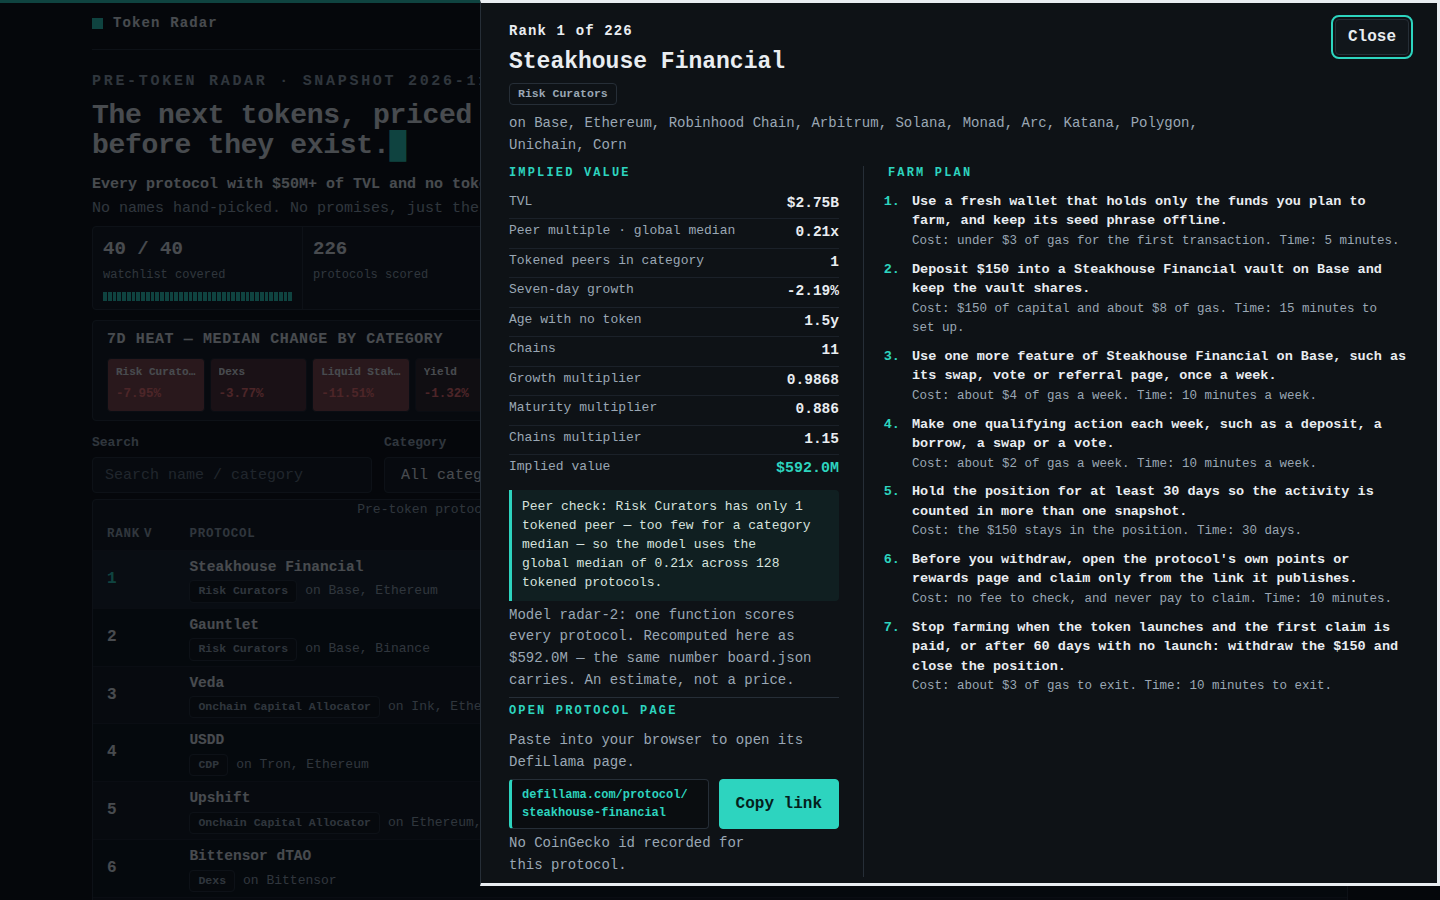
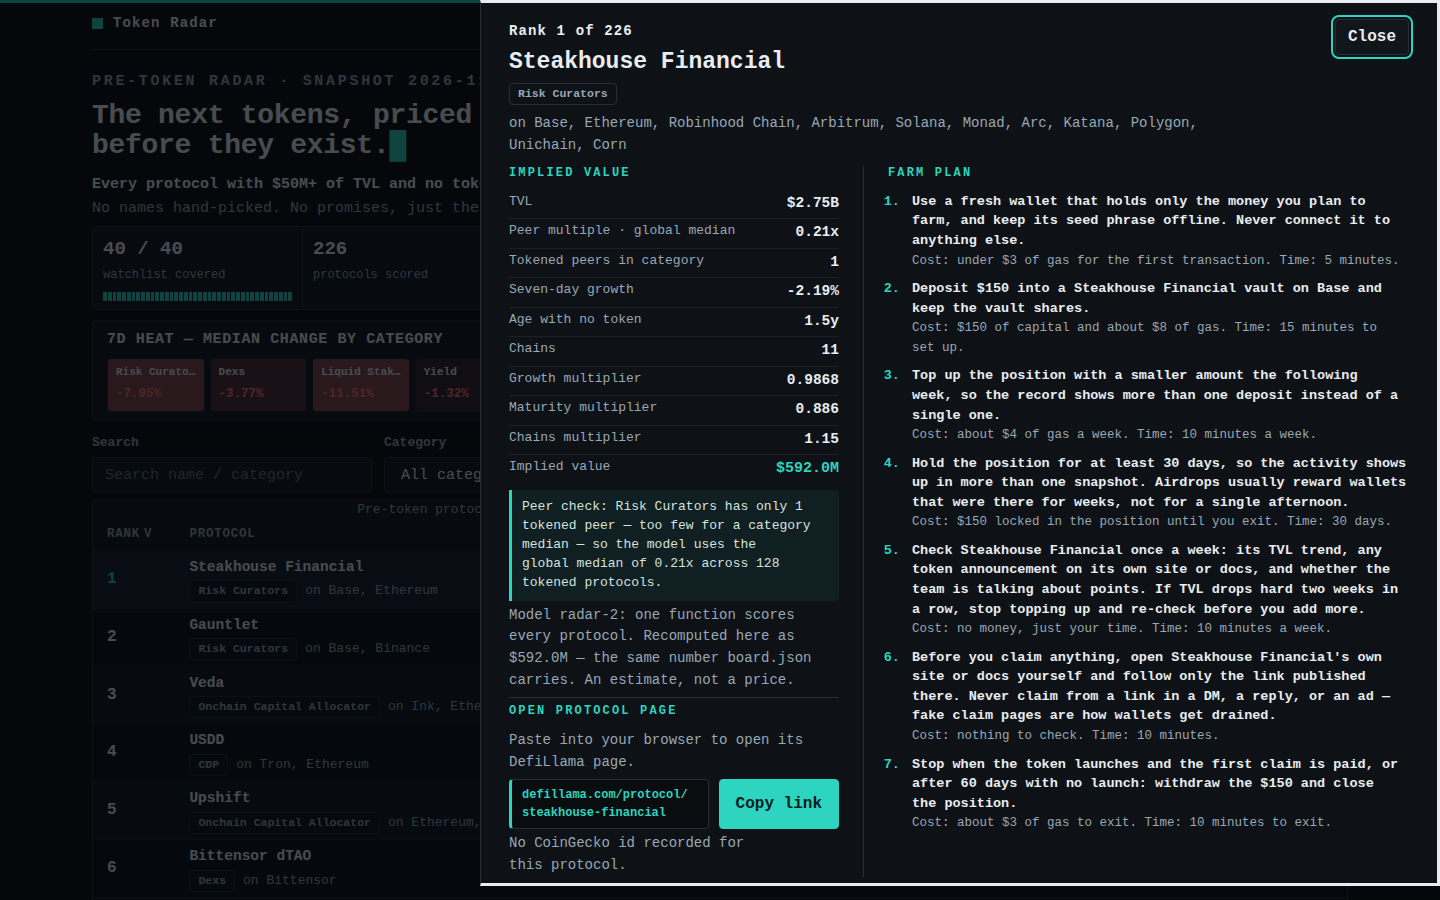
Farm plans rewritten in plain words: no invented features, no duplicated steps
- actionFor: only what the category proves (DEX swaps, lender lends,
  vault takes deposits); 'narrow range', 'highest-yield', 'hedged'
  and 'mint' assumptions removed. Honest fallback names the check
  instead of inventing a product.
- secondActionFor -> weeklyActionFor: one weekly habit, distinct
  from the first position; the Mad-Libs 'use one more feature, such
  as its swap, vote or referral page' is gone — replaced by a top-up
  where the category proves nothing else.
- Steps 4-6 reworked: hold rule with its reason, a what-to-watch
  step (TVL trend, token announcement, points talk), and a pre-claim
  safety check that never assumes a points page exists.
- Cost lines in natural phrasing ('$150 locked in the position
  until you exit', 'no money, just your time').
- Mirrored identically in dashboard/app.js; model values untouched.

Changed region(s): [[0.625, 0.2178, 0.9688, 0.9333]]

diff --git a/lib/model.ts b/lib/model.ts
@@ -367,43 +367,51 @@ function holdDaysFor(age: number | null): number {
   return 30;
 }
 
-/** The category's core action, in the words a farmer can follow. */
+/** The category's core action, in plain words a farmer can follow. Every branch names only
+ * what the category itself proves: a DEX swaps, a lender lends, a vault takes deposits. Where
+ * the snapshot cannot prove which product holds the TVL, the fallback says so instead of
+ * inventing a feature. */
 function actionFor(p: SnapshotProtocol, capital: number, chain: string): string {
   const c = (p.category ?? '').toLowerCase();
   const name = p.name;
-  if (c.includes('lend') || c.includes('cdp') || c.includes('collateral')) return `Supply $${capital} of USDC to ${name} on ${chain} and borrow a small amount against it, then repay the borrow.`;
-  if (c.includes('dex')) return `Provide $${capital} of liquidity to ${name}'s main pool on ${chain} in a narrow range and collect the trading fees.`;
-  if (c.includes('yield') || c.includes('leveraged farm')) return `Deposit $${capital} into ${name}'s highest-yield vault on ${chain} and let the yield compound.`;
-  if (c.includes('bridge') || c.includes('cross chain')) return `Bridge $${capital} of USDC to ${chain} through ${name} and use the bridged funds in its app.`;
-  if (c.includes('staking') || c.includes('restak')) return `Stake $${capital} of the chain's staking asset through ${name} and keep the receipt token.`;
-  if (c.includes('perpetual') || c.includes('derivative')) return `Deposit $${capital} of USDC as margin on ${name} and open one small hedged trade.`;
-  if (c.includes('prediction')) return `Fund $${capital} and place one market position on ${name} on an outcome you have researched.`;
+  if (c.includes('lend') || c.includes('cdp') || c.includes('collateral')) return `Supply $${capital} of USDC to ${name} on ${chain} and leave it earning interest.`;
+  if (c.includes('dex') || c.includes('liquidity manager')) return `Provide $${capital} of liquidity to ${name}'s main pool on ${chain} and leave it earning trading fees.`;
+  if (c.includes('yield') || c.includes('leveraged farm')) return `Deposit $${capital} into ${name}'s main vault on ${chain} and leave it to compound.`;
+  if (c.includes('bridge') || c.includes('cross chain')) return `Bridge $${capital} of USDC to ${chain} through ${name}, then use the bridged funds in the app on the other side.`;
+  if (c.includes('staking') || c.includes('restak')) return `Stake $${capital} of the chain's staking asset through ${name} on ${chain} and keep the receipt token.`;
+  if (c.includes('perpetual') || c.includes('derivative')) return `Deposit $${capital} of USDC as margin on ${name} and open one small trade.`;
+  if (c.includes('prediction')) return `Fund $${capital} and place one position on ${name} on an outcome you have actually researched.`;
   if (c.includes('curator') || c.includes('allocator') || c.includes('onchain capital')) return `Deposit $${capital} into a ${name} vault on ${chain} and keep the vault shares.`;
-  if (c.includes('stable')) return `Mint or deposit $${capital} of the stable asset through ${name} on ${chain} and hold it.`;
-  if (c.includes('rwa')) return `Mint $${capital} of the protocol's yield-bearing asset on ${chain} and hold it for the yield.`;
+  if (c.includes('stable')) return `Hold $${capital} of the stablecoin ${name} issues on ${chain}.`;
+  if (c.includes('rwa')) return `Put $${capital} into the yield-bearing asset ${name} offers on ${chain} and hold it.`;
   if (c.includes('insurance')) return `Buy $${capital} of cover from ${name} on ${chain} and keep the policy active.`;
-  if (c.includes('basis')) return `Deposit $${capital} into ${name}'s basis vault on ${chain} and hold the position through one funding cycle.`;
-  if (c.includes('liquid')) return `Deposit $${capital} of the liquid asset into ${name} on ${chain} and use the receipt in a second protocol.`;
-  return `Deposit $${capital} of USDC into ${name} on ${chain} and keep the position open.`;
+  if (c.includes('basis')) return `Deposit $${capital} into ${name}'s basis vault on ${chain} and hold the position.`;
+  if (c.includes('liquid')) return `Deposit $${capital} of the staking asset into ${name} on ${chain} and hold the receipt token.`;
+  return `Put $${capital} into ${name}'s main product on ${chain} — check its own page to see which product holds the TVL — and leave the position open.`;
 }
 
-/** A second, different qualifying action for the same category, so the plan is not one action repeated. */
-function secondActionFor(p: SnapshotProtocol, capital: number, chain: string): string {
+/** The weekly habit: a second, different interaction for the same category, so the plan is not
+ * one action repeated — and never an invented feature. Anything the category cannot prove exists
+ * (a swap page, a vote, a referral program) is replaced by the honest fallback: top the position up. */
+function weeklyActionFor(p: SnapshotProtocol, capital: number, chain: string): string {
   const c = (p.category ?? '').toLowerCase();
   const name = p.name;
-  if (c.includes('lend') || c.includes('cdp')) return `Use ${name} on ${chain} a second time with a different collateral asset, so the activity is not a single deposit.`;
-  if (c.includes('dex')) return `Swap a small amount through ${name} on ${chain} once a week, in addition to the liquidity position.`;
-  if (c.includes('bridge') || c.includes('cross chain')) return `Bridge a second, smaller amount back through ${name} so the record shows activity in both directions.`;
-  if (c.includes('staking') || c.includes('restak')) return `Restake the receipt token once, or delegate a small part of it, to show a second staking action.`;
-  if (c.includes('perpetual') || c.includes('derivative')) return `Close the first trade on ${name} and open a second one in the opposite direction with the same margin.`;
-  if (c.includes('prediction')) return `Settle one position on ${name} and open a second market position the following week.`;
-  return `Use one more feature of ${name} on ${chain}, such as its swap, vote or referral page, once a week.`;
+  if (c.includes('lend') || c.includes('cdp')) return `Lend a second, smaller amount on ${name} the following week, using a different asset as collateral, so the record shows more than one deposit.`;
+  if (c.includes('dex') || c.includes('liquidity manager')) return `Swap a small amount through ${name} on ${chain} once a week, on top of the liquidity position.`;
+  if (c.includes('bridge') || c.includes('cross chain')) return `Bridge a second, smaller amount back through ${name}, so the record shows movement in both directions.`;
+  if (c.includes('staking') || c.includes('restak')) return `Add a small amount to the stake the following week, so the record shows more than one staking action.`;
+  if (c.includes('perpetual') || c.includes('derivative')) return `Close the first trade and open a second, smaller one the following week.`;
+  if (c.includes('prediction')) return `Settle the first position, then open a second one the following week on a different outcome.`;
+  return `Top up the position with a smaller amount the following week, so the record shows more than one deposit instead of a single one.`;
 }
 
 /**
  * A protocol's farm plan: seven steps, each an action with a cost and a time. The plan is derived
  * from the protocol's own record (category, chains, TVL, age), never from a hand-written list of
- * names. Step 7 is the exit rule: when to stop, so the plan is a complete trade, not an open loop.
+ * names — and never from a feature the snapshot cannot prove exists. Each step does a different
+ * job: 1) a clean wallet, 2) the first real position, 3) the weekly habit, 4) the hold, 5) what
+ * to watch, 6) the safety check before any claim, 7) the exit rule. Step 7 is the exit rule:
+ * when to stop, so the plan is a complete trade, not an open loop.
  */
 export function farmSteps(p: SnapshotProtocol, age: number | null): FarmStep[] {
   const chain = chainOf(p);
@@ -413,7 +421,7 @@ export function farmSteps(p: SnapshotProtocol, age: number | null): FarmStep[] {
   const gas = capital >= 150 ? 8 : 4;
   return [
     {
-      text: `Use a fresh wallet that holds only the funds you plan to farm, and keep its seed phrase offline.`,
+      text: `Use a fresh wallet that holds only the money you plan to farm, and keep its seed phrase offline. Never connect it to anything else.`,
       cost: 'under $3 of gas for the first transaction',
       time: '5 minutes',
     },
@@ -423,27 +431,27 @@ export function farmSteps(p: SnapshotProtocol, age: number | null): FarmStep[] {
       time: '15 minutes to set up',
     },
     {
-      text: secondActionFor(p, capital, chain),
+      text: weeklyActionFor(p, capital, chain),
       cost: `about $${Math.max(2, Math.round(gas / 2))} of gas a week`,
       time: '10 minutes a week',
     },
     {
-      text: `Make one qualifying action each week, such as a deposit, a borrow, a swap or a vote.`,
-      cost: 'about $2 of gas a week',
-      time: '10 minutes a week',
-    },
-    {
-      text: `Hold the position for at least ${hold} days so the activity is counted in more than one snapshot.`,
-      cost: `the $${capital} stays in the position`,
+      text: `Hold the position for at least ${hold} days, so the activity shows up in more than one snapshot. Airdrops usually reward wallets that were there for weeks, not for a single afternoon.`,
+      cost: `$${capital} locked in the position until you exit`,
       time: `${hold} days`,
     },
     {
-      text: `Before you withdraw, open the protocol's own points or rewards page and claim only from the link it publishes.`,
-      cost: 'no fee to check, and never pay to claim',
+      text: `Check ${p.name} once a week: its TVL trend, any token announcement on its own site or docs, and whether the team is talking about points. If TVL drops hard two weeks in a row, stop topping up and re-check before you add more.`,
+      cost: 'no money, just your time',
+      time: '10 minutes a week',
+    },
+    {
+      text: `Before you claim anything, open ${p.name}'s own site or docs yourself and follow only the link published there. Never claim from a link in a DM, a reply, or an ad — fake claim pages are how wallets get drained.`,
+      cost: 'nothing to check',
       time: '10 minutes',
     },
     {
-      text: `Stop farming when the token launches and the first claim is paid, or after ${hold + 30} days with no launch: withdraw the $${capital} and close the position.`,
+      text: `Stop when the token launches and the first claim is paid, or after ${hold + 30} days with no launch: withdraw the $${capital} and close the position.`,
       cost: 'about $3 of gas to exit',
       time: '10 minutes to exit',
     },

diff --git a/dashboard/app.js b/dashboard/app.js
@@ -88,34 +88,38 @@
     if (age < 365) return 45;
     return 30;
   }
+  // The farm plan is the same derivation main.ts writes to board.json: category, chains, TVL and age
+  // decide the action, the capital, the hold and every cost and time. No name is special-cased,
+  // and no step invents a feature the snapshot cannot prove exists — where the record is silent,
+  // the plan says to check instead of assuming.
   function actionFor(p, capital, chain) {
     var c = (p.category || '').toLowerCase();
     var name = p.name;
-    if (c.indexOf('lend') >= 0 || c.indexOf('cdp') >= 0 || c.indexOf('collateral') >= 0) return 'Supply $' + capital + ' of USDC to ' + name + ' on ' + chain + ' and borrow a small amount against it, then repay the borrow.';
-    if (c.indexOf('dex') >= 0) return 'Provide $' + capital + ' of liquidity to ' + name + "'s main pool on " + chain + ' in a narrow range and collect the trading fees.';
-    if (c.indexOf('yield') >= 0 || c.indexOf('leveraged farm') >= 0) return 'Deposit $' + capital + " into " + name + "'s highest-yield vault on " + chain + ' and let the yield compound.';
-    if (c.indexOf('bridge') >= 0 || c.indexOf('cross chain') >= 0) return 'Bridge $' + capital + ' of USDC to ' + chain + ' through ' + name + ' and use the bridged funds in its app.';
-    if (c.indexOf('staking') >= 0 || c.indexOf('restak') >= 0) return "Stake $" + capital + " of the chain's staking asset through " + name + ' and keep the receipt token.';
-    if (c.indexOf('perpetual') >= 0 || c.indexOf('derivative') >= 0) return 'Deposit $' + capital + ' of USDC as margin on ' + name + ' and open one small hedged trade.';
-    if (c.indexOf('prediction') >= 0) return 'Fund $' + capital + ' and place one market position on ' + name + ' on an outcome you have researched.';
+    if (c.indexOf('lend') >= 0 || c.indexOf('cdp') >= 0 || c.indexOf('collateral') >= 0) return 'Supply $' + capital + ' of USDC to ' + name + ' on ' + chain + ' and leave it earning interest.';
+    if (c.indexOf('dex') >= 0 || c.indexOf('liquidity manager') >= 0) return 'Provide $' + capital + ' of liquidity to ' + name + "'s main pool on " + chain + ' and leave it earning trading fees.';
+    if (c.indexOf('yield') >= 0 || c.indexOf('leveraged farm') >= 0) return 'Deposit $' + capital + " into " + name + "'s main vault on " + chain + ' and leave it to compound.';
+    if (c.indexOf('bridge') >= 0 || c.indexOf('cross chain') >= 0) return 'Bridge $' + capital + ' of USDC to ' + chain + ' through ' + name + ', then use the bridged funds in the app on the other side.';
+    if (c.indexOf('staking') >= 0 || c.indexOf('restak') >= 0) return "Stake $" + capital + " of the chain's staking asset through " + name + ' on ' + chain + ' and keep the receipt token.';
+    if (c.indexOf('perpetual') >= 0 || c.indexOf('derivative') >= 0) return 'Deposit $' + capital + ' of USDC as margin on ' + name + ' and open one small trade.';
+    if (c.indexOf('prediction') >= 0) return 'Fund $' + capital + ' and place one position on ' + name + ' on an outcome you have actually researched.';
     if (c.indexOf('curator') >= 0 || c.indexOf('allocator') >= 0 || c.indexOf('onchain capital') >= 0) return 'Deposit $' + capital + ' into a ' + name + ' vault on ' + chain + ' and keep the vault shares.';
-    if (c.indexOf('stable') >= 0) return 'Mint or deposit $' + capital + ' of the stable asset through ' + name + ' on ' + chain + ' and hold it.';
-    if (c.indexOf('rwa') >= 0) return "Mint $" + capital + " of the protocol's yield-bearing asset on " + chain + ' and hold it for the yield.';
+    if (c.indexOf('stable') >= 0) return 'Hold $' + capital + ' of the stablecoin ' + name + ' issues on ' + chain + '.';
+    if (c.indexOf('rwa') >= 0) return 'Put $' + capital + ' into the yield-bearing asset ' + name + ' offers on ' + chain + ' and hold it.';
     if (c.indexOf('insurance') >= 0) return 'Buy $' + capital + ' of cover from ' + name + ' on ' + chain + ' and keep the policy active.';
-    if (c.indexOf('basis') >= 0) return 'Deposit $' + capital + " into " + name + "'s basis vault on " + chain + ' and hold the position through one funding cycle.';
-    if (c.indexOf('liquid') >= 0) return 'Deposit $' + capital + ' of the liquid asset into ' + name + ' on ' + chain + ' and use the receipt in a second protocol.';
-    return 'Deposit $' + capital + ' of USDC into ' + name + ' on ' + chain + ' and keep the position open.';
+    if (c.indexOf('basis') >= 0) return 'Deposit $' + capital + " into " + name + "'s basis vault on " + chain + ' and hold the position.';
+    if (c.indexOf('liquid') >= 0) return 'Deposit $' + capital + ' of the staking asset into ' + name + ' on ' + chain + ' and hold the receipt token.';
+    return 'Put $' + capital + " into " + name + "'s main product on " + chain + ' — check its own page to see which product holds the TVL — and leave the position open.';
   }
-  function secondActionFor(p, capital, chain) {
+  function weeklyActionFor(p, capital, chain) {
     var c = (p.category || '').toLowerCase();
     var name = p.name;
-    if (c.indexOf('lend') >= 0 || c.indexOf('cdp') >= 0) return 'Use ' + name + ' on ' + chain + ' a second time with a different collateral asset, so the activity is not a single deposit.';
-    if (c.indexOf('dex') >= 0) return 'Swap a small amount through ' + name + ' on ' + chain + ' once a week, in addition to the liquidity position.';
-    if (c.indexOf('bridge') >= 0 || c.indexOf('cross chain') >= 0) return 'Bridge a second, smaller amount back through ' + name + ' so the record shows activity in both directions.';
-    if (c.indexOf('staking') >= 0 || c.indexOf('restak') >= 0) return 'Restake the receipt token once, or delegate a small part of it, to show a second staking action.';
-    if (c.indexOf('perpetual') >= 0 || c.indexOf('derivative') >= 0) return 'Close the first trade on ' + name + ' and open a second one in the opposite direction with the same margin.';
-    if (c.indexOf('prediction') >= 0) return 'Settle one position on ' + name + ' and open a second market position the following week.';
-    return 'Use one more feature of ' + name + ' on ' + chain + ', such as its swap, vote or referral page, once a week.';
+    if (c.indexOf('lend') >= 0 || c.indexOf('cdp') >= 0) return 'Lend a second, smaller amount on ' + name + ' the following week, using a different asset as collateral, so the record shows more than one deposit.';
+    if (c.indexOf('dex') >= 0 || c.indexOf('liquidity manager') >= 0) return 'Swap a small amount through ' + name + ' on ' + chain + ' once a week, on top of the liquidity position.';
+    if (c.indexOf('bridge') >= 0 || c.indexOf('cross chain') >= 0) return 'Bridge a second, smaller amount back through ' + name + ', so the record shows movement in both directions.';
+    if (c.indexOf('staking') >= 0 || c.indexOf('restak') >= 0) return 'Add a small amount to the stake the following week, so the record shows more than one staking action.';
+    if (c.indexOf('perpetual') >= 0 || c.indexOf('derivative') >= 0) return 'Close the first trade and open a second, smaller one the following week.';
+    if (c.indexOf('prediction') >= 0) return 'Settle the first position, then open a second one the following week on a different outcome.';
+    return 'Top up the position with a smaller amount the following week, so the record shows more than one deposit instead of a single one.';
   }
   function stepText(step) {
     var s = step.text + ' Cost: ' + step.cost + '. Time: ' + step.time + '.';
@@ -129,13 +133,13 @@
     var hold = holdDaysFor(p.age_days);
     var gas = capital >= 150 ? 8 : 4;
     return [
-      { text: 'Use a fresh wallet that holds only the funds you plan to farm, and keep its seed phrase offline.', cost: 'under $3 of gas for the first transaction', time: '5 minutes' },
+      { text: 'Use a fresh wallet that holds only the money you plan to farm, and keep its seed phrase offline. Never connect it to anything else.', cost: 'under $3 of gas for the first transaction', time: '5 minutes' },
       { text: actionFor(p, capital, chain), cost: '$' + capital + ' of capital and about $' + gas + ' of gas', time: '15 minutes to set up' },
-      { text: secondActionFor(p, capital, chain), cost: 'about $' + Math.max(2, Math.round(gas / 2)) + ' of gas a week', time: '10 minutes a week' },
-      { text: 'Make one qualifying action each week, such as a deposit, a borrow, a swap or a vote.', cost: 'about $2 of gas a week', time: '10 minutes a week' },
-      { text: 'Hold the position for at least ' + hold + ' days so the activity is counted in more than one snapshot.', cost: 'the $' + capital + ' stays in the position', time: hold + ' days' },
-      { text: "Before you withdraw, open the protocol's own points or rewards page and claim only from the link it publishes.", cost: 'no fee to check, and never pay to claim', time: '10 minutes' },
-      { text: 'Stop farming when the token launches and the first claim is paid, or after ' + (hold + 30) + ' days with no launch: withdraw the $' + capital + ' and close the position.', cost: 'about $3 of gas to exit', time: '10 minutes to exit' }
+      { text: weeklyActionFor(p, capital, chain), cost: 'about $' + Math.max(2, Math.round(gas / 2)) + ' of gas a week', time: '10 minutes a week' },
+      { text: 'Hold the position for at least ' + hold + ' days, so the activity shows up in more than one snapshot. Airdrops usually reward wallets that were there for weeks, not for a single afternoon.', cost: '$' + capital + ' locked in the position until you exit', time: hold + ' days' },
+      { text: 'Check ' + p.name + ' once a week: its TVL trend, any token announcement on its own site or docs, and whether the team is talking about points. If TVL drops hard two weeks in a row, stop topping up and re-check before you add more.', cost: 'no money, just your time', time: '10 minutes a week' },
+      { text: 'Before you claim anything, open ' + p.name + "'s own site or docs yourself and follow only the link published there. Never claim from a link in a DM, a reply, or an ad — fake claim pages are how wallets get drained.", cost: 'nothing to check', time: '10 minutes' },
+      { text: 'Stop when the token launches and the first claim is paid, or after ' + (hold + 30) + ' days with no launch: withdraw the $' + capital + ' and close the position.', cost: 'about $3 of gas to exit', time: '10 minutes to exit' }
     ].map(stepText);
   }
 
